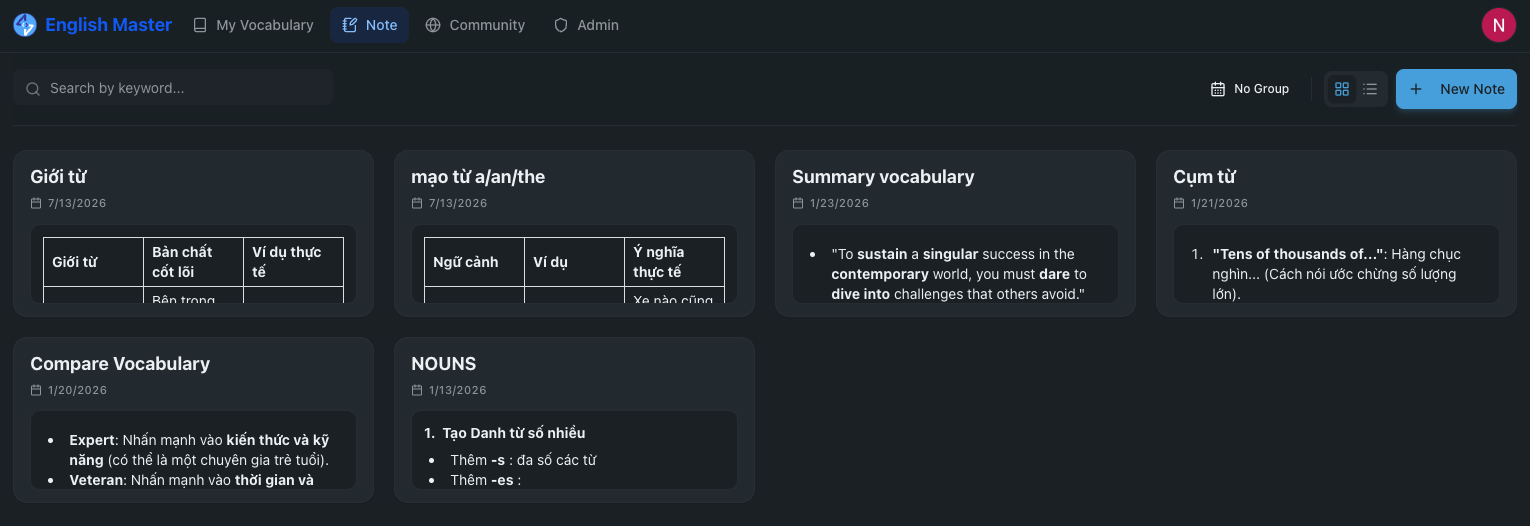
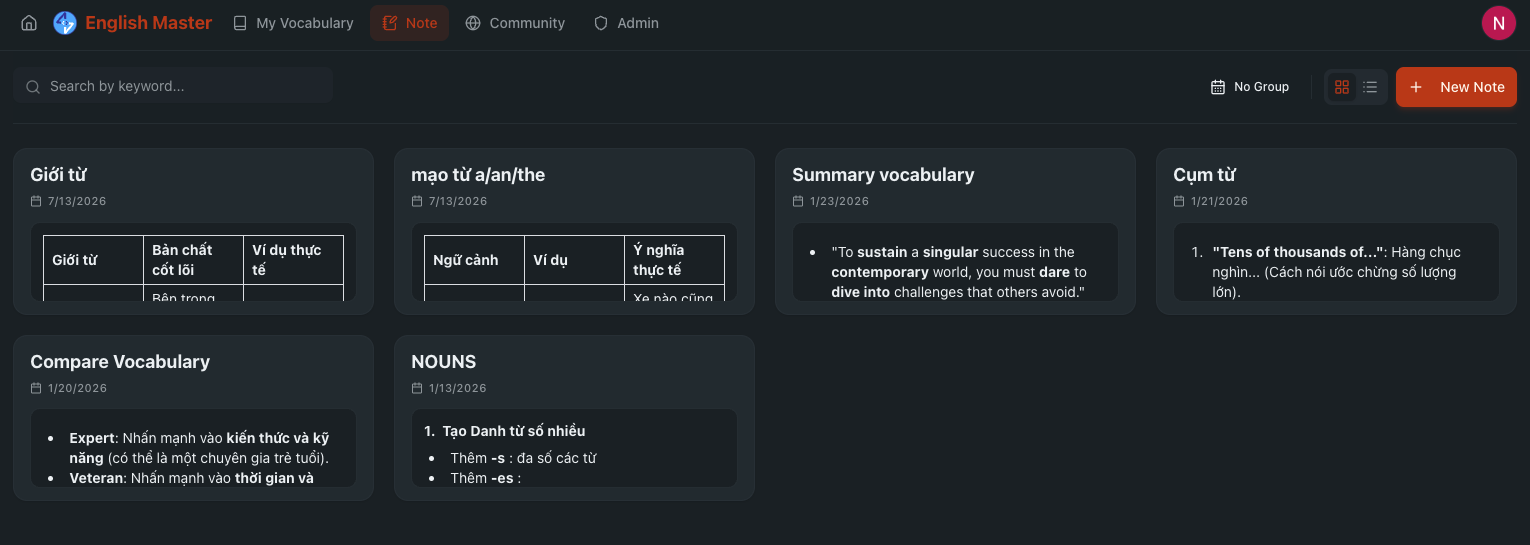
update home image

diff --git a/src/pages/home/components/CardContainer/VocabularyCard/CardBack.tsx b/src/pages/home/components/CardContainer/VocabularyCard/CardBack.tsx
@@ -7,10 +7,11 @@ export const CardBack: React.FC<{
   const { t } = useTranslation("home");
   return (
     <div className="flex flex-col items-center justify-center relative w-full h-full animate-in fade-in zoom-in-95 duration-500">
-      <div className="absolute inset-0 opacity-15 dark:opacity-25">
+      <div className="absolute inset-0 opacity-15 dark:opacity-[0.12]">
         <div className="absolute inset-0 bg-[radial-gradient(circle_at_50%_50%,rgba(255,255,255,0.15)_1px,transparent_1px)] bg-[length:16px_16px]"></div>
         <div className="absolute inset-0 bg-[conic-gradient(from_0deg_at_50%_50%,transparent_0deg,rgba(253,230,138,0.3)_60deg,transparent_120deg,rgba(251,191,36,0.2)_180deg,transparent_240deg,rgba(249,115,22,0.2)_300deg,transparent_360deg)]"></div>
-        <div className="absolute inset-0 bg-[repeating-linear-gradient(30deg,transparent,transparent_10px,rgba(255,251,235,0.16)_10px,rgba(255,251,235,0.16)_11px)]"></div>
+        {/* Vân sọc chéo: chỉ dùng ở light, ở dark nền sẫm làm sọc lộ rõ thành vệt */}
+        <div className="absolute inset-0 dark:hidden bg-[repeating-linear-gradient(30deg,transparent,transparent_10px,rgba(255,251,235,0.16)_10px,rgba(255,251,235,0.16)_11px)]"></div>
       </div>
 
       <div className="absolute top-2 left-2 w-8 h-8 border-2 border-yellow-100/40 rotate-45"></div>
@@ -23,7 +24,7 @@ export const CardBack: React.FC<{
       <div className="absolute bottom-0 left-0 w-12 h-12 border-b-2 border-l-2 border-orange-100/50"></div>
       <div className="absolute bottom-0 right-0 w-12 h-12 border-b-2 border-r-2 border-yellow-100/50"></div>
 
-      <div className="absolute inset-0 bg-gradient-to-br from-yellow-200/20 via-amber-200/20 to-orange-200/20 dark:from-yellow-300/20 dark:via-amber-300/20 dark:to-orange-300/20 blur-xl"></div>
+      <div className="absolute inset-0 bg-gradient-to-br from-yellow-200/20 via-amber-200/20 to-orange-200/20 dark:from-yellow-300/8 dark:via-amber-300/8 dark:to-orange-300/8 blur-xl"></div>
 
       <div
         className="absolute top-0 left-0 p-1.5 rounded-full hover:bg-white/20 dark:hover:bg-white/30 transition-all opacity-0 group-hover:opacity-100 text-white/70 hover:text-red-300 dark:hover:text-red-400 z-20 backdrop-blur-sm"

diff --git a/src/index.css b/src/index.css
@@ -31,9 +31,16 @@
   --brand-end: #c2410c;
   --brand-hover-start: #b45309;
   --brand-hover-end: #9a3412;
-  --brand-card-start: #d97706;
-  --brand-card-mid: #ea580c;
+  /* Mặt sau flashcard (light): tông primary rực rỡ, chuyển màu êm từ amber -> orange */
+  --brand-card-start: #fbbf24;
+  --brand-card-mid: #f97316;
+  --brand-card-glow: #ea580c;
   --brand-card-end: #c2410c;
+  /* Mặt trước flashcard (light): nền trắng ấm nhẹ theo primary */
+  --brand-face-start: #ffffff;
+  --brand-face-end: #fff3e6;
+  /* Độ sáng của vệt highlight trên mặt úp */
+  --brand-card-sheen: 0.2;
   --secondary: oklch(0.97 0 0);
   --secondary-foreground: oklch(0.205 0 0);
   --muted: oklch(0.97 0 0);
@@ -86,7 +93,10 @@ body {
   --color-brand-hover-end: var(--brand-hover-end);
   --color-brand-card-start: var(--brand-card-start);
   --color-brand-card-mid: var(--brand-card-mid);
+  --color-brand-card-glow: var(--brand-card-glow);
   --color-brand-card-end: var(--brand-card-end);
+  --color-brand-face-start: var(--brand-face-start);
+  --color-brand-face-end: var(--brand-face-end);
   --color-secondary: var(--secondary);
   --color-secondary-foreground: var(--secondary-foreground);
   --color-muted: var(--muted);
@@ -126,9 +136,15 @@ body {
   --brand-end: #9a3412;
   --brand-hover-start: #78350f;
   --brand-hover-end: #7c2d12;
-  --brand-card-start: #2f1d18;
-  --brand-card-mid: #54281a;
-  --brand-card-end: #351b16;
+  /* Mặt sau flashcard (dark): tông primary sẫm, chuyển màu êm và sâu */
+  --brand-card-start: #7c2d12;
+  --brand-card-mid: #9a3412;
+  --brand-card-glow: #6b2410;
+  --brand-card-end: #2c1109;
+  /* Mặt trước flashcard (dark): nền tối ấm nhẹ theo primary */
+  --brand-face-start: oklch(0.32 0.028 45);
+  --brand-face-end: oklch(0.27 0.032 35);
+  --brand-card-sheen: 0.12;
   --secondary: oklch(0.35 0.02 240);
   --secondary-foreground: oklch(0.96 0.005 240);
   --muted: oklch(0.35 0.02 240);

diff --git a/src/pages/landing/index.tsx b/src/pages/landing/index.tsx
@@ -1,3 +1,4 @@
+import { useThemedImage } from "@/hooks/useThemedImage";
 import { NotebookPen, Table, ListChecks, Users, Import, Sparkles } from "lucide-react";
 import { useEffect } from "react";
 import { useTranslation } from "react-i18next";
@@ -11,6 +12,8 @@ import { MobileShowcase } from "./components/MobileShowcase";
 
 const LandingPage = () => {
   const { t } = useTranslation("landing");
+  const notesImage = useThemedImage("/home-2.png");
+  const communityImage = useThemedImage("/home-3.png");
 
   useEffect(() => {
     document.title = t("documentTitle");
@@ -44,7 +47,7 @@ const LandingPage = () => {
             { icon: ListChecks, text: t("notes.points.checklist") },
             { icon: NotebookPen, text: t("notes.points.editor") },
           ]}
-          image="/home-2.png"
+          image={notesImage}
           imageAlt={t("notes.imageAlt")}
         />
 
@@ -65,7 +68,7 @@ const LandingPage = () => {
             { icon: Import, text: t("community.points.import") },
             { icon: Sparkles, text: t("community.points.updates") },
           ]}
-          image="/home-3.png"
+          image={communityImage}
           imageAlt={t("community.imageAlt")}
           reverse
         />

diff --git a/src/pages/landing/components/MobileShowcase.tsx b/src/pages/landing/components/MobileShowcase.tsx
@@ -1,3 +1,4 @@
+import { useThemedImage } from "@/hooks/useThemedImage";
 import { WifiOff, Zap, Smartphone } from "lucide-react";
 import { useTranslation } from "react-i18next";
 import { GradientBlob } from "./GradientBlob";
@@ -12,6 +13,7 @@ const POINTS = [
 
 export const MobileShowcase = () => {
   const { t } = useTranslation("landing");
+  const mobileImage = useThemedImage("/home-4.png");
 
   return (
     <section id="mobile" className="relative overflow-hidden py-16 md:py-24">
@@ -22,7 +24,7 @@ export const MobileShowcase = () => {
       <div className="relative mx-auto max-w-7xl px-4 md:px-8">
         <div className="grid items-center gap-12 md:grid-cols-2 md:gap-16">
           <Reveal direction="left" className="order-2 flex justify-center md:order-1">
-            <PhoneFrame src="/home-4.png" alt={t("mobile.imageAlt")} />
+            <PhoneFrame src={mobileImage} alt={t("mobile.imageAlt")} />
           </Reveal>
 
           <Reveal direction="right" className="order-1 text-center md:order-2 md:text-left">

diff --git a/src/styles/index.css b/src/styles/index.css
@@ -116,3 +116,34 @@
     }
   }
 }
+
+/* flashcard surfaces */
+
+@layer components {
+  /* Mặt úp: gradient primary 4 điểm dừng, nội suy trong oklab cho chuyển màu mượt,
+     cộng một vệt sáng nhẹ ở góc trên trái để bề mặt không bị phẳng. */
+  .flashcard-back-surface {
+    background-image:
+      radial-gradient(
+        115% 85% at 20% 8%,
+        rgb(255 255 255 / var(--brand-card-sheen)) 0%,
+        rgb(255 255 255 / 0) 62%
+      ),
+      linear-gradient(
+        152deg in oklab,
+        var(--brand-card-start) 0%,
+        var(--brand-card-mid) 36%,
+        var(--brand-card-glow) 68%,
+        var(--brand-card-end) 100%
+      );
+  }
+
+  /* Mặt ngửa: nền ấm rất nhạt (light) / sẫm ấm (dark) cùng tông primary. */
+  .flashcard-face-surface {
+    background-image: linear-gradient(
+      160deg in oklab,
+      var(--brand-face-start) 0%,
+      var(--brand-face-end) 100%
+    );
+  }
+}

diff --git a/src/pages/landing/components/HeroSection.tsx b/src/pages/landing/components/HeroSection.tsx
@@ -1,6 +1,7 @@
 import { Button } from "@/components/ui/button";
 import { ROUTES } from "@/constants";
 import { useAuth } from "@/hooks/useAuth";
+import { useThemedImage } from "@/hooks/useThemedImage";
 import { motion } from "framer-motion";
 import { ArrowRight, Sparkles } from "lucide-react";
 import { useTranslation } from "react-i18next";
@@ -13,6 +14,7 @@ export const HeroSection = () => {
   const { userProfile, isGuest } = useAuth();
   const { t } = useTranslation("landing");
   const isAuthed = !!userProfile || isGuest;
+  const heroImage = useThemedImage("/home-1.png");
 
   return (
     <section
@@ -95,7 +97,7 @@ export const HeroSection = () => {
         >
           <div className="absolute inset-x-8 -bottom-6 h-24 rounded-full bg-primary/15 blur-3xl" />
           <BrowserFrame
-            src="/home-1.png"
+            src={heroImage}
             alt={t("hero.imageAlt")}
             className="relative"
           />

diff --git a/src/pages/home/components/CardContainer/VocabularyCard/index.tsx b/src/pages/home/components/CardContainer/VocabularyCard/index.tsx
@@ -132,8 +132,8 @@ const VocabularyCard: React.FC<VocabularyCardProps> = ({
             transition-all duration-500 ease-in-out
             ${
               isFlipped
-                ? "bg-card border-primary/35 hover:border-primary/70 dark:border-primary/45 dark:hover:border-primary/80"
-                : "bg-gradient-to-br from-brand-card-start via-brand-card-mid to-brand-card-end border-primary/25 shadow-xl shadow-black/20 dark:shadow-black/35"
+                ? "flashcard-face-surface border-primary/35 hover:border-primary/70 dark:border-primary/45 dark:hover:border-primary/80"
+                : "flashcard-back-surface border-primary/30 dark:border-primary/40 shadow-xl shadow-primary/25 dark:shadow-black/45"
             }
           `}
         >

diff --git a/src/hooks/useThemedImage.tsx b/src/hooks/useThemedImage.tsx
@@ -1,0 +1,14 @@
+import { useTheme } from "@/contexts/ThemeContext";
+
+/**
+ * Ảnh mặc định là bản dark (vd: /home-1.png), bản light thêm hậu tố "-light"
+ * trước phần mở rộng (vd: /home-1-light.png).
+ */
+export const lightVariant = (darkSrc: string) =>
+  darkSrc.replace(/(\.[a-z0-9]+)$/i, "-light$1");
+
+/** Trả về đường dẫn ảnh tương ứng với theme hiện tại. */
+export const useThemedImage = (darkSrc: string) => {
+  const { theme } = useTheme();
+  return theme === "light" ? lightVariant(darkSrc) : darkSrc;
+};
